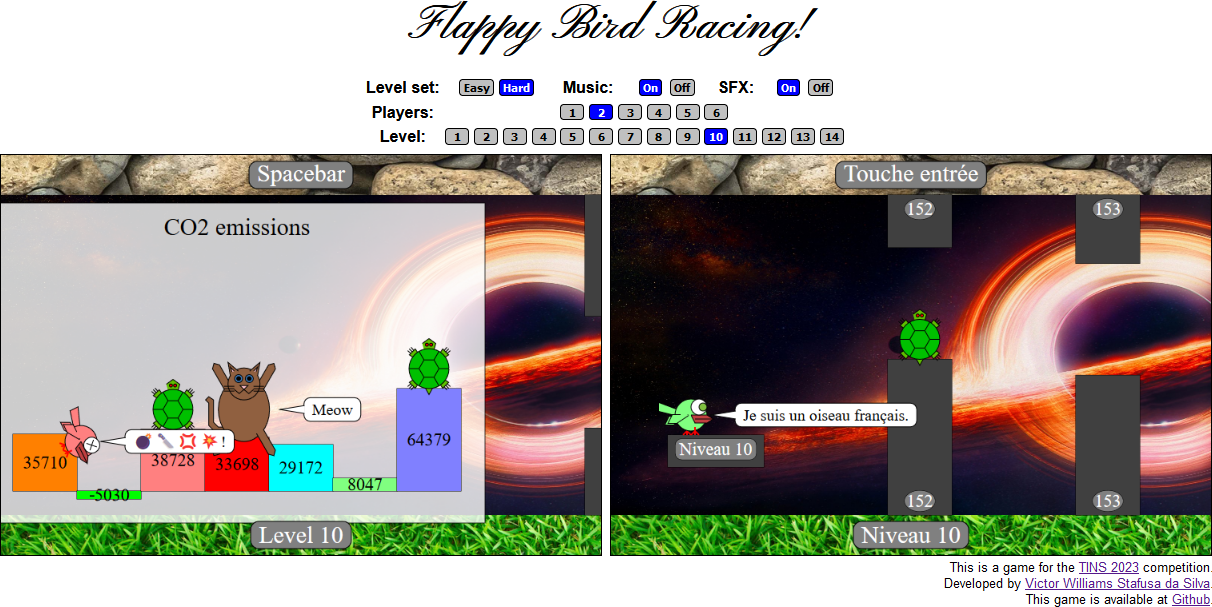
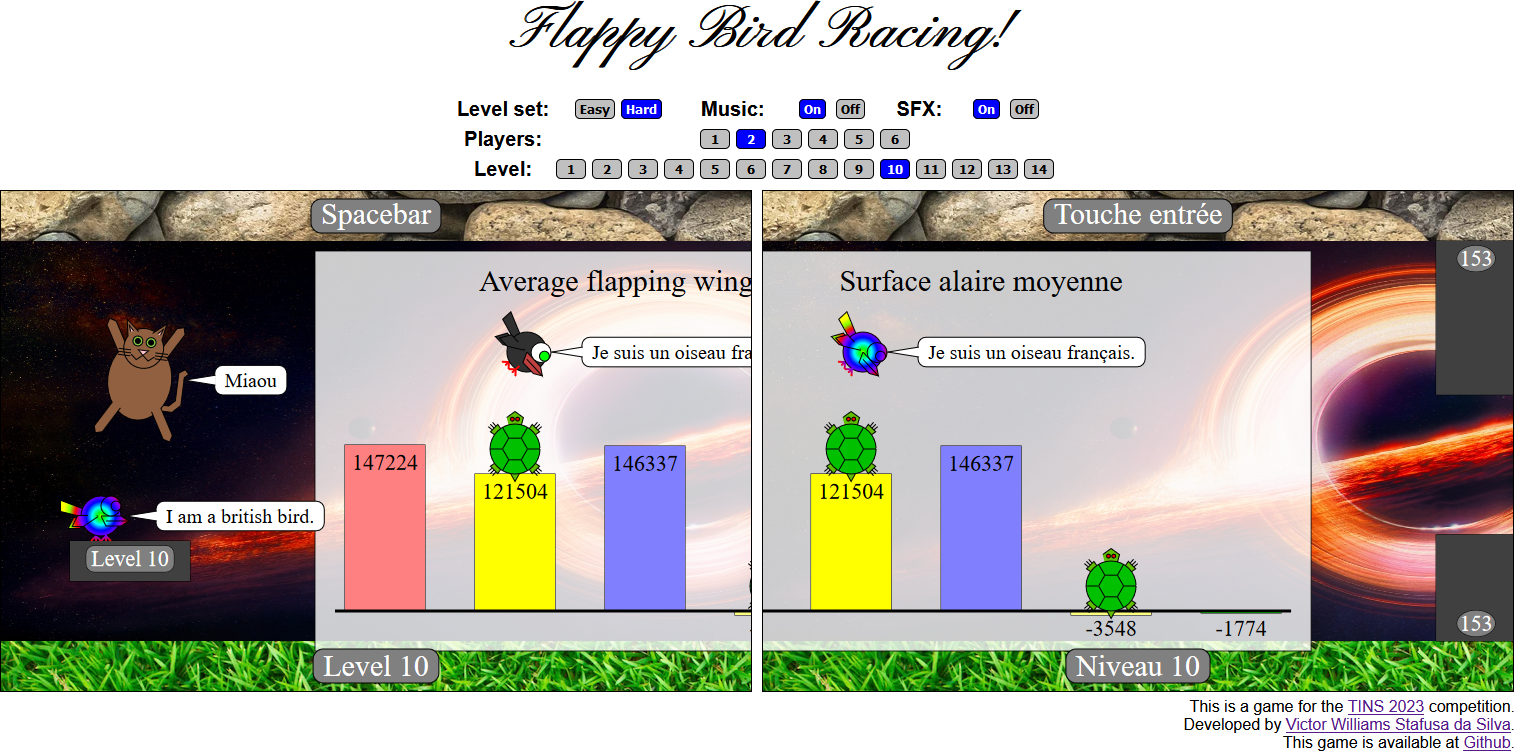
Bugfix: The bottom line in the chart was gone.

diff --git a/js/obstaculo.js b/js/obstaculo.js
@@ -303,6 +303,7 @@ class Barra extends Tubo {
     get corBarra() { return this.#cor      ; }
     get corTexto() { return "black"        ; }
 
+    get negativo() { return this.#negativo ; }
     get posicao () { return this.#posicao  ; }
 
     texto(spec) {
@@ -428,8 +429,11 @@ class Chart extends GameObject {
             ctx.beginPath();
             ctx.lineWidth = 3;
             ctx.strokeStyle = "black";
-            ctx.moveTo(this.xp1, this.barras[0].yp2);
-            ctx.lineTo(this.xp2, this.barras[0].yp2);
+            const b0 = this.barras[0];
+            const [x1, x2] = [b0.xp1(spec), this.barras.at(-1).xp2(spec)];
+            const y = b0.negativo ? b0.yp1(spec) : b0.yp2(spec);
+            ctx.moveTo(x1 - 10, y);
+            ctx.lineTo(x2 + 10, y);
             ctx.stroke();
         } finally {
             ctx.restore();
